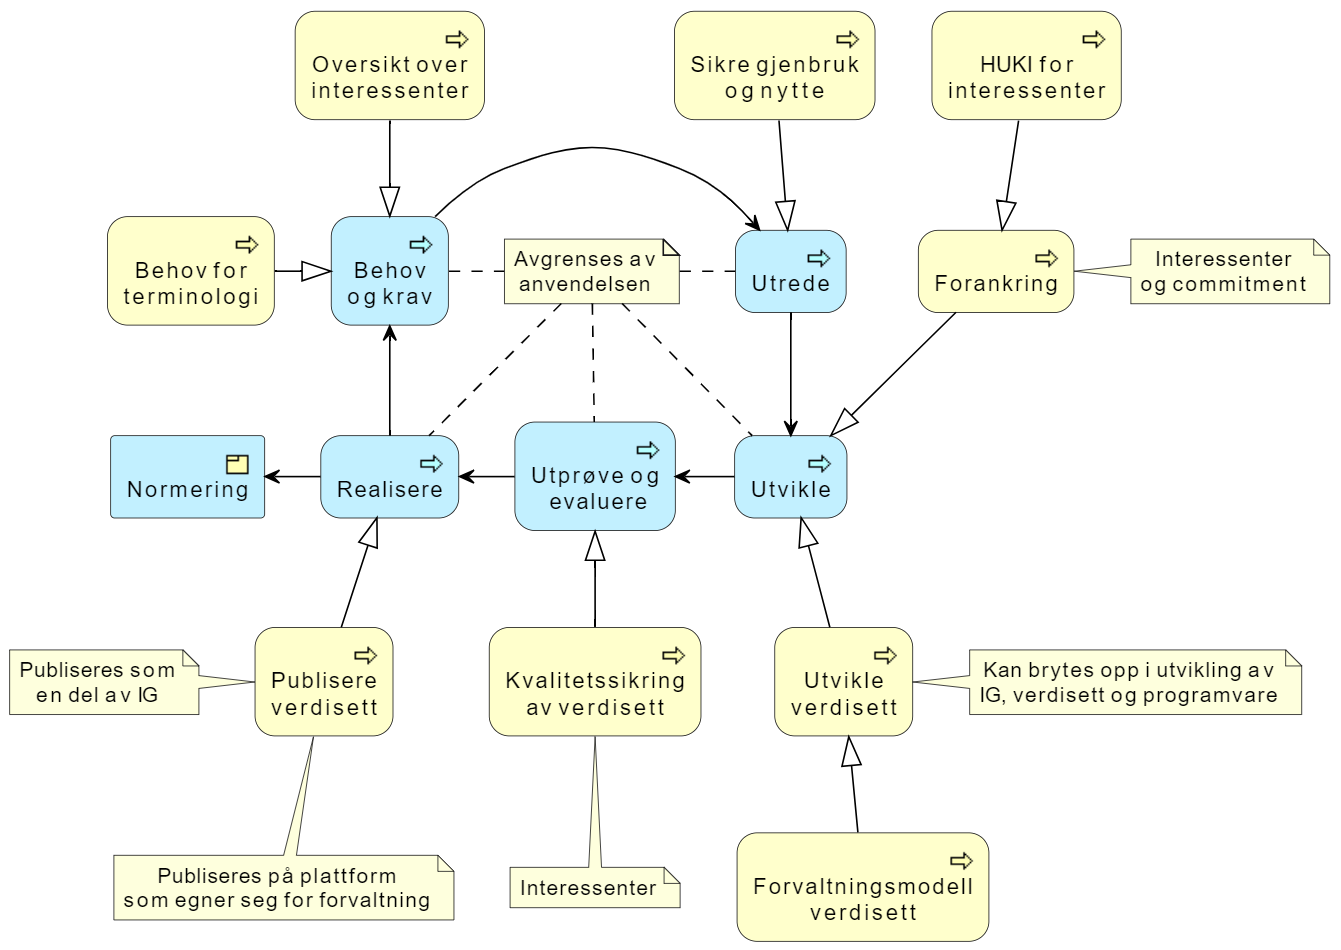
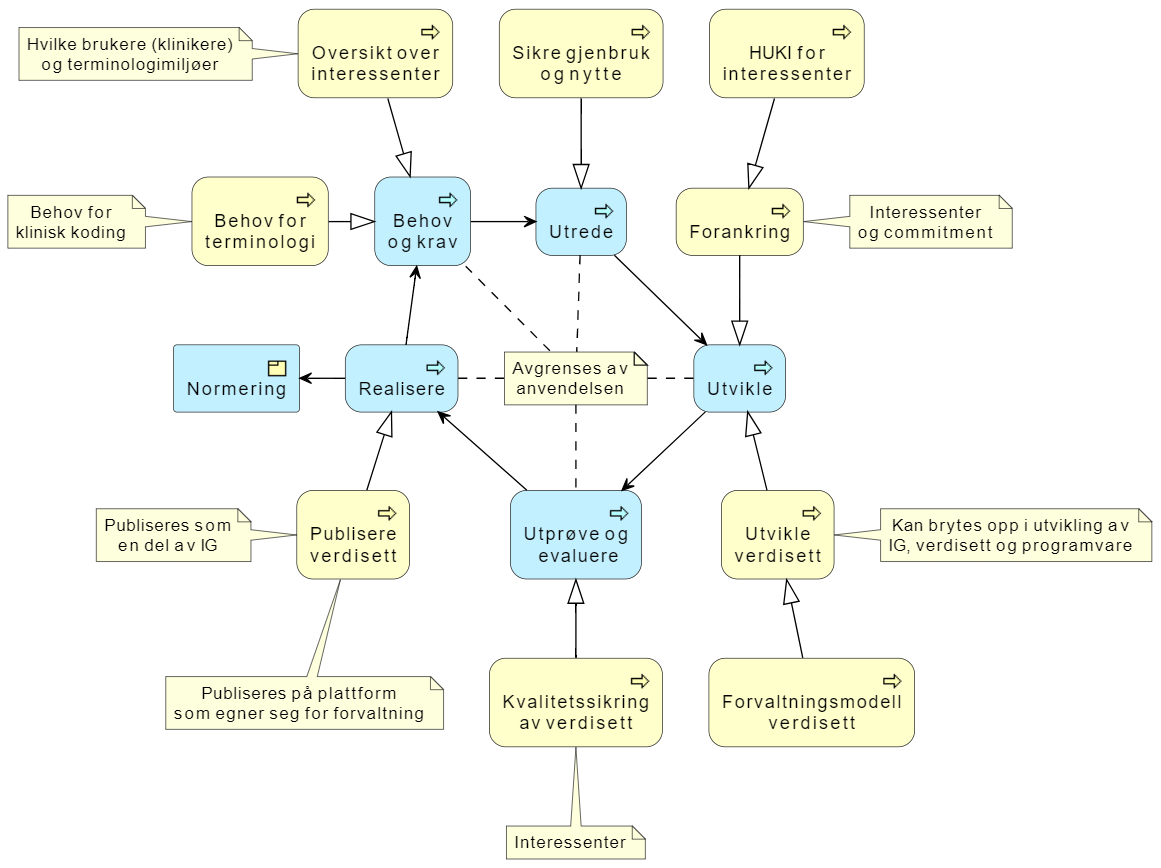
Update terminologimetode og figur

diff --git a/docs/terminologi-no-domain.md b/docs/terminologi-no-domain.md
@@ -55,8 +55,8 @@ Terminologiarbeid er bare nevnt i en setning i metoden, men er den mest tidkreve
 * Start smått, tenk stort. Forsøke å forenkle brukerhistorien til noe som gir umiddelbar nytte for kliniker og pasient.
 * Anvendelsen må beskrives (tydelig) først (ivaretatt i dagens metode).  
 * Behov må analyseres og beskrives  
-  * Få oversikt over interessenter  
-  * Husk å tenke på terminologibehov
+  * Få oversikt over interessenter.  
+  * Husk å tenke på terminologibehov, hvilke verdisett og fra hvilke kodeverk.
 * Det er viktig å få commitment fra terminologimiljøene.  
   * Være tydelig hva de ulike interessentene har for oppgaver og ansvar i arbeidet.  
 * Utviklingen av verdisettene må henge sammen med anvendelsen.  
